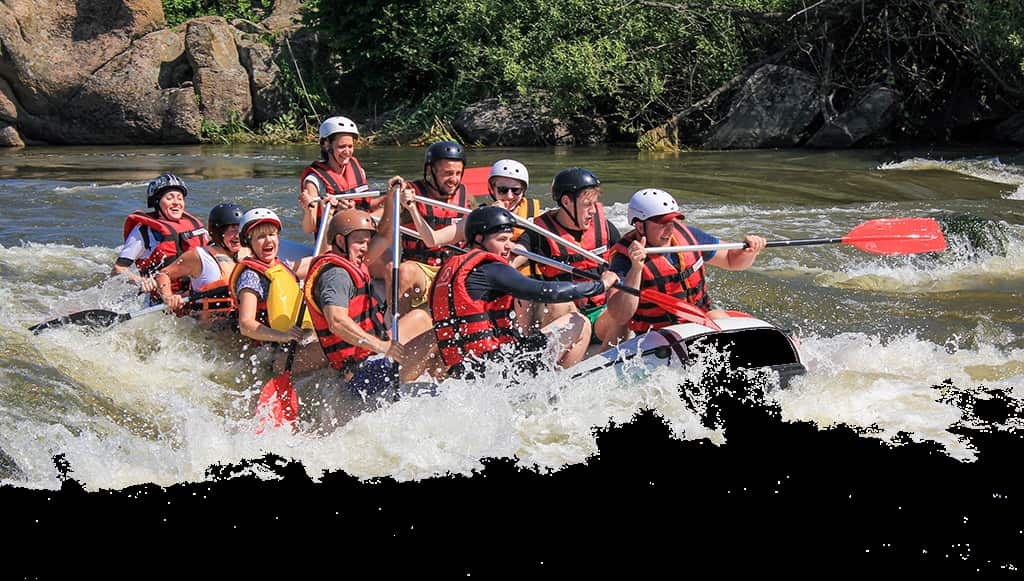
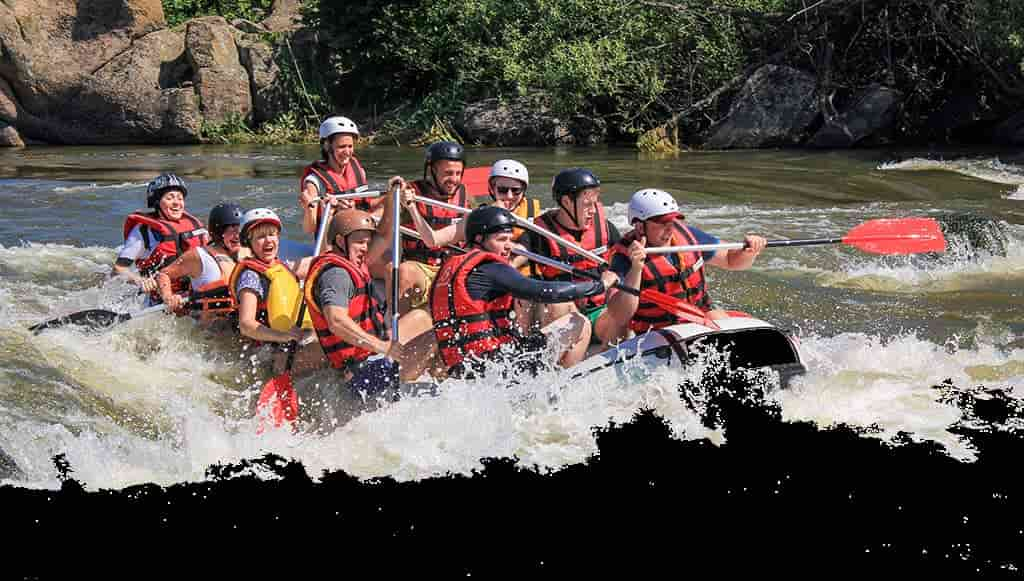
images sizes reduced to fit speecification

diff --git a/wwr/about.html b/wwr/about.html
@@ -32,17 +32,15 @@
         </div>
         <section>
             <h2>History</h2>
-            <p>Rapid Riders began as a shared dream between two brothers, Nephi Asha and Solomon Asha. With a lifelong passion for adventure and a love for the outdoors, they set out to create a company that would offer thrilling rapid water rafting experiences to adventure seekers.
-            Starting with just a small fleet of rafts and a handful of guides, Rapid Riders quickly gained a reputation for their exceptional service, safety standards, and unforgettable river expeditions. Over the years, the company expanded its offerings to include various levels of rafting experiences, from beginner-friendly floats to challenging rapids for the more daring.
-            With a strong commitment to environmental sustainability and community involvement, Rapid Riders has become a trusted name in the adventure tourism industry. Today, the company continues to inspire a sense of adventure and a deep appreciation for nature in all who join their rafting trips.</p>
+            <p>Rapid Riders began as a shared dream between two brothers, Nephi Asha and Solomon Asha. With a lifelong passion for adventure and a love for the outdoors, they set out to create a company that would offer thrilling rapid water rafting experiences to adventure seekers.Starting with just a small fleet of rafts and a handful of guides, Rapid Riders quickly gained a reputation for their exceptional service, safety standards, and unforgettable river expeditions.With a strong commitment to environmental sustainability and community involvement, Rapid Riders has become a trusted name in the adventure tourism industry. Today, the company continues to inspire a sense of adventure and a deep appreciation for nature in all who join their rafting trips.</p>
         </section>
         <section>
             <h2>Adventure Awaits You!</h2>
-            <img src="images/r2.jpg" alt="Pictures of Satisfied Clients 2">
-            <img src="images/r3.jpg" alt="Pictures of Satisfied Clients 3">
-            <img src="images/r4.jpg" alt="Pictures of Satisfied Clients 4">
-            <img src="images/r5.jpg" alt="Pictures of Satisfied Clients 5">
-            <img src="images/r1.jpg" alt="Pictures of Satisfied Clients 1">
+            <img src="images/r2.jpg" alt="Happy Clients 2">
+            <img src="images/r3.jpg" alt="Happy Clients 3">
+            <img src="images/r4.jpg" alt="Happy Clients 4">
+            <img src="images/r5.jpg" alt="Happy Clients 5">
+            <img src="images/r1.jpg" alt="Happy Clients 1">
         </section>
     </main>
     <footer>
